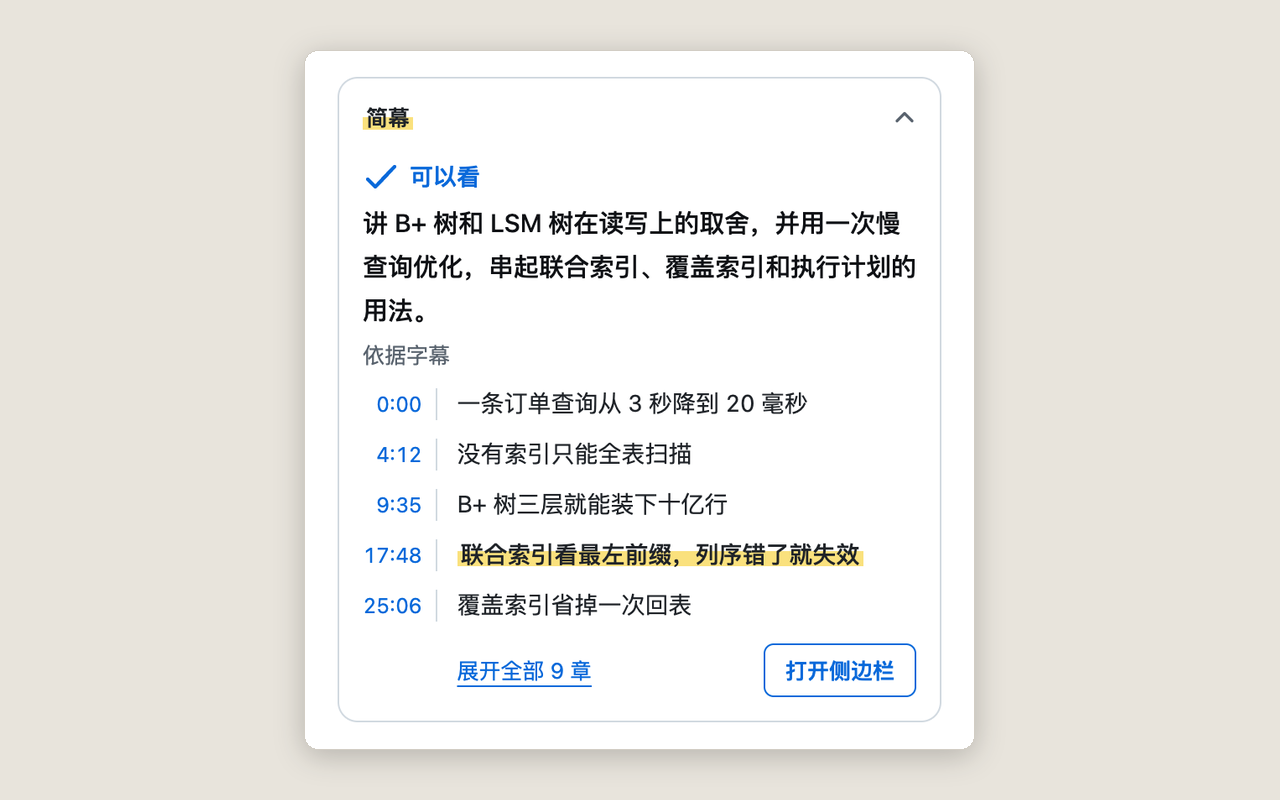
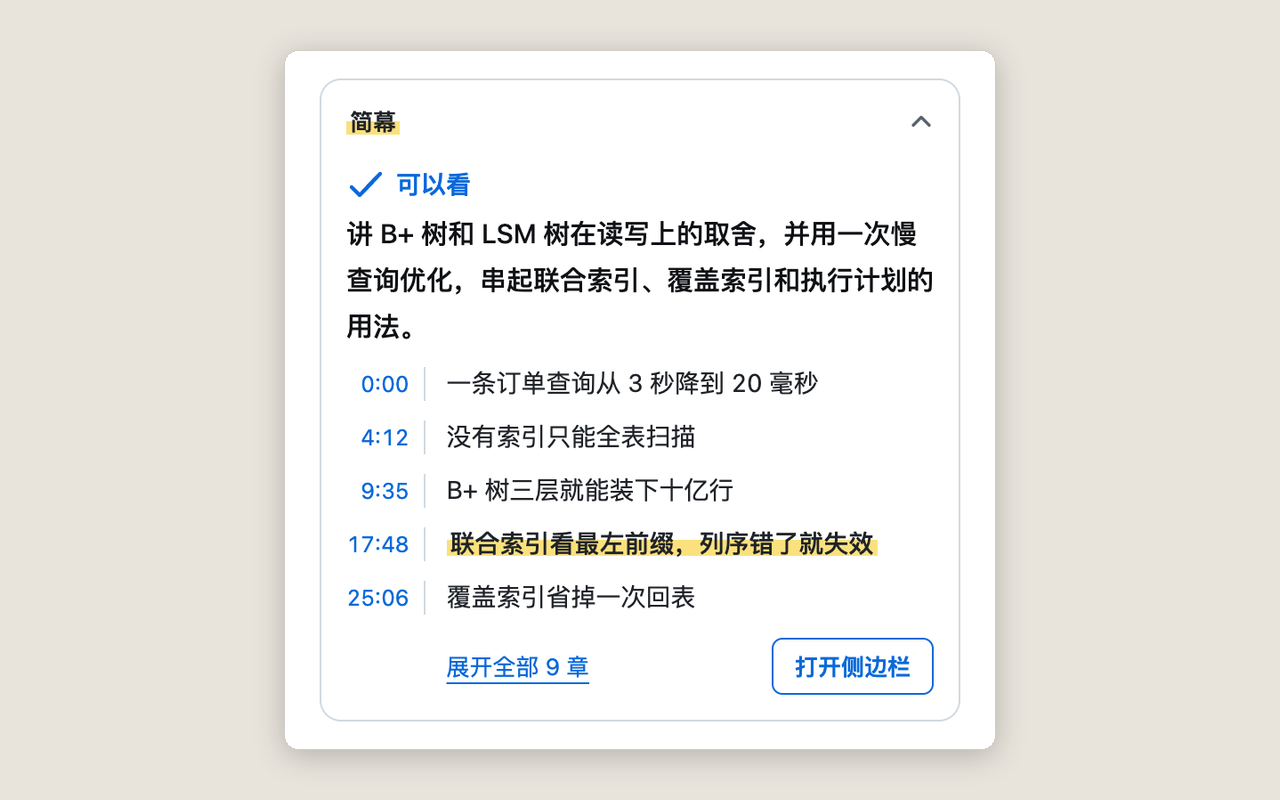
feat(卡片): 结论下面不再写「依据字幕」
依据字幕是常态，卡片上这一行只占地方；只靠官方总结写的结论照旧提醒。侧边栏和粗筛页不变。

Changed region(s): [[0.2188, 0.0625, 0.7812, 0.9375], [0.3438, 0.8125, 0.4688, 0.875], [0.6875, 0.125, 0.7188, 0.1562]]

diff --git a/src/pages/card/card.tsx b/src/pages/card/card.tsx
@@ -125,10 +125,10 @@ function OfficialBody({ official, limited, onSeek, onToggleAll }: { readonly off
   );
 }
 
+// 卡片地方小，依据字幕是常态不标；只有没读字幕、靠官方总结写的结论才提醒一句。
 function basisOf(analysis: LearningAnalysis): BasisSource | null {
   const source = text(analysis.verdict?.source);
-  if (source === "official" || source === "official-summary") return "official-summary";
-  return hasOverview(analysis) ? "transcript" : null;
+  return source === "official" || source === "official-summary" ? "official-summary" : null;
 }
 
 function Overview({
